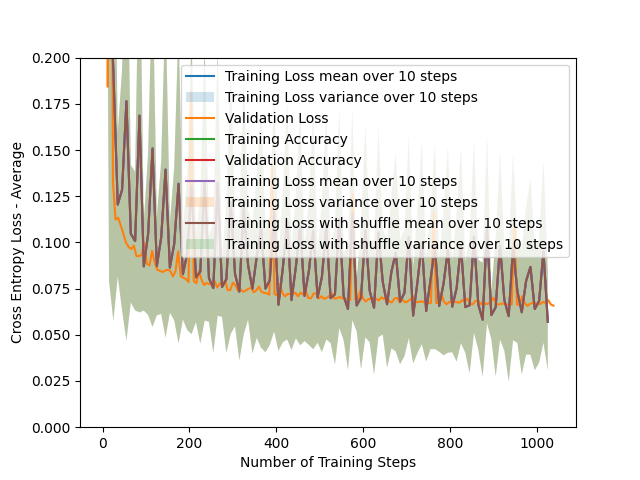
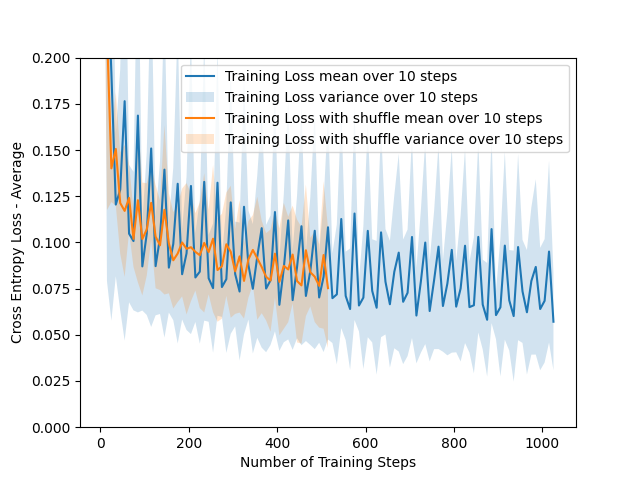
before rebase

diff --git a/assignment1/trainer.py b/assignment1/trainer.py
@@ -74,8 +74,8 @@ class BaseTrainer:
             loss={},
             accuracy={}
         )
-        counter = 0
-        prev_best_loss = np.inf
+        best_loss = np.inf #starting with maximum as best loss
+        repetitive_worse = 0 #number of times the loss has been worse than best
         global_step = 0
         for epoch in range(num_epochs):
             train_loader = utils.batch_loader(
@@ -94,18 +94,15 @@ class BaseTrainer:
 
                     # TODO (Task 2d): Implement early stopping here.
                     # You can access the validation loss in val_history["loss"]
-                    if self.stop_count:
-                        # No improvement
-                        if prev_best_loss < val_loss:
-                            counter += 1
-                        else:
-                            counter = 0
-                            prev_best_loss = val_loss
-                            
-                        # We have reached max number of passes trough dataset without improvement
-                        if counter == self.stop_count:
-                            print(f"We went trough {epoch} of {num_epochs} before stopping")
-                            return train_history, val_history
+                    if val_history["loss"][global_step] < best_loss:
+                        best_loss = val_history["loss"][global_step]
+                        repetitive_worse = 0
+                    else:
+                        repetitive_worse += 1
+
+                    if repetitive_worse == self.stop_count:
+                        print(f"We went trough {epoch} of {num_epochs} before stopping")
+                        return train_history, val_history
                     # if(global_step >= num_steps_per_val*self.stop_count and val_history["loss"][global_step] >= val_history["loss"][global_step-(num_steps_per_val*self.stop_count)]):
                     #     print(f'Training stopped after {epoch} epochs. {epoch}/{num_epochs} total')
                     #     return train_history, val_history

diff --git a/assignment1/task3a.py b/assignment1/task3a.py
@@ -22,10 +22,10 @@ class SoftmaxModel:
 
     def __init__(self, l2_reg_lambda: float):
         # Define number of input nodes
-        self.I = None
+        self.I = 785
 
         # Define number of output nodes
-        self.num_outputs = None
+        self.num_outputs = 10
         self.w = np.zeros((self.I, self.num_outputs))
         self.grad = None
 
@@ -38,8 +38,13 @@ class SoftmaxModel:
         Returns:
             y: output of model with shape [batch size, num_outputs]
         """
+        
         # TODO implement this function (Task 3a)
-        return None
+        #@ calls the matmul function
+        print(X.shape)
+        y = (np.exp(X@self.w))/(np.sum(np.exp(X@self.w), axis=1))[:,None]
+        print(y.shape)
+        return y
 
     def backward(self, X: np.ndarray, outputs: np.ndarray, targets: np.ndarray) -> None:
         """
@@ -72,7 +77,21 @@ def one_hot_encode(Y: np.ndarray, num_classes: int):
         Y: shape [Num examples, num classes]
     """
     # TODO implement this function (Task 3a)
-    raise NotImplementedError
+    #creating the new shape of Y, specifying it should be a int.
+    #inspiration from keras lib method. 
+    n = Y.shape[0]
+    # input_shape = Y.shape
+    # if input_shape and input_shape[-1] == 1 and len(input_shape) > 1:
+    #     input_shape = tuple(input_shape[:-1])   
+    encoded = np.zeros((n,num_classes),dtype=int)
+    #encoded[] = 1
+    #print(f'n: {np.arange(n)}')
+    #print(f'Y: {Y.flatten()}')
+    encoded[np.arange(n), Y.ravel()] = 1
+    #output_shape = input_shape + (num_classes,)
+    #encoded = np.reshape(encoded, output_shape)
+    
+    return encoded
 
 
 def gradient_approximation_test(model: SoftmaxModel, X: np.ndarray, Y: np.ndarray):

diff --git a/assignment1/utils.py b/assignment1/utils.py
@@ -26,6 +26,8 @@ def batch_loader(
     indices = list(range(len(X)))
 
     # TODO (task 2e) implement dataset shuffling here.
+    if shuffle:
+        np.random.shuffle(indices)
 
     for i in range(num_batches):
         # select a set of indices for each batch of samples
